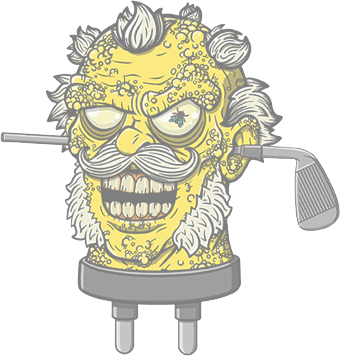
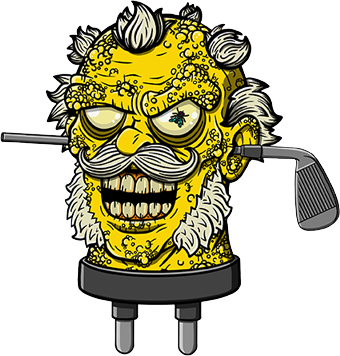
replace odds images

diff --git a/pages/components/section/about/Splash.tsx b/pages/components/section/about/Splash.tsx
@@ -11,7 +11,7 @@ const Splash: FC = () => {
     { w: 338, h: 385 },
     { w: 390, h: 389 },
     { w: 311, h: 380 },
-    { w: 220, h: 393 },
+    { w: 319, h: 358 },
     { w: 220, h: 393 },
     { w: 340, h: 356 },
     { w: 401, h: 349 },
@@ -59,7 +59,7 @@ const Splash: FC = () => {
     { x: 1685, y: 505 },
     { x: -131, y: 12 },
     { x: 1300, y: -41 },
-    { x: 728, y: 733 },
+    { x: 688, y: 773 },
     { x: -16, y: 209 },
     { x: 1730, y: -11 },
     { x: 1549, y: 2 },
@@ -127,7 +127,6 @@ const Splash: FC = () => {
         <Image src={forkImg} width={`${forkImg.width / 1920 * windowSize.width}`} height={`${forkImg.height / 1920 * windowSize.width}`} />
       </div>
       <div className='absolute' style={{ left: 575 / 1920 * windowSize.width, top: (191 - 108) / 1920 * windowSize.width }}>
-        {/* <Image src={plateImg} width={`${plateImg.width / 1920 * windowSize.width}`} height={`${plateImg.height / 1920 * windowSize.width}`} /> */}
         <img src='Plate.gif' width={`${plateImg.width / 1920 * windowSize.width}`} height={`${plateImg.height / 1920 * windowSize.width}`} />
       </div>
       <div className='absolute' style={{ left: 1411 / 1920 * windowSize.width, top: (387 - 108) / 1920 * windowSize.width }}>
